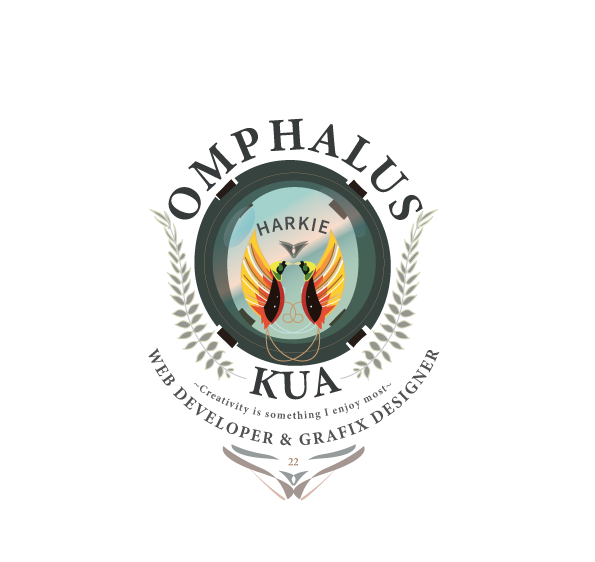
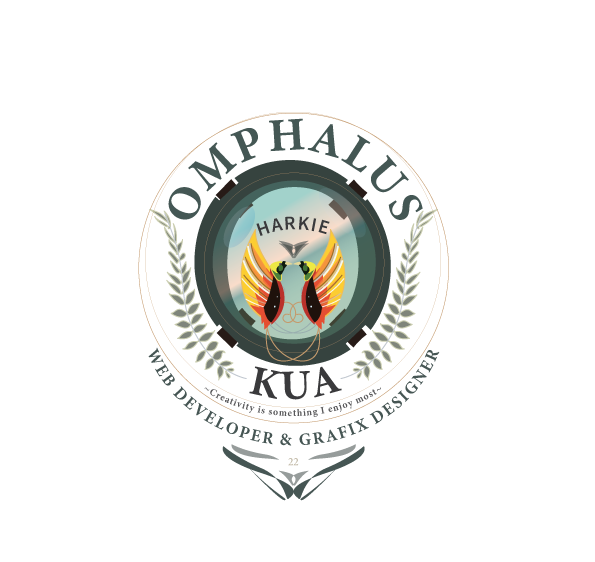
added purple haze to front ui

diff --git a/src/components/Navbar.js b/src/components/Navbar.js
@@ -32,8 +32,8 @@ const useStyles = makeStyles((theme) => ({
     width: "auto",
   },
   appBar: {
-    background: "linear-gradient(45deg, #667370, #ffcec524)",
-    boxShadow: "-4px 6px 1px #3e484d73, -1px -1px 1px #636f6b",
+    background: "linear-gradient(45deg, #5f416399, #ffcec524)",
+    boxShadow: "-4px 6px 1px #3e484d73, -1px 3px 1px #6a707345",
     margin: 0,
     position: "fixed",
     width: "auto",
@@ -55,7 +55,7 @@ const useStyles = makeStyles((theme) => ({
     justifyContent: "center",
     flexDirection: "column",
     alignItems: "center",
-    background: "linear-gradient(45deg, #384552, #588c90)",
+    background: "linear-gradient(45deg, #271829, #777677)",
     borderRadius: "2rem 2rem 3rem 3rem !important",
     boxShadow:
       "-4px 6px 1px #3e484d73, -1px -1px 1px rgba(102, 51, 102, 0.174)",
@@ -124,20 +124,32 @@ const useStyles = makeStyles((theme) => ({
   },
   textColor: {
     "& span": {
-      fontSize: "0.89rem",
+      fontSize: "1.23rem",
       color: "#f3fffe;",
       fontWeight: "500",
-      letterSpacing: ".085rem",
+      letterSpacing: ".05rem",
+      fontFamily: "Padauk",
       lineHeight: "1.2rem",
+      [`${theme.breakpoints.up("md")} and (orientation: landscape)`]: {
+        fontSize: "1.07rem",
+        letterSpacing: ".1rem",
+      },
     },
   },
 
   hamburger_lines_coat: {
-    border: "1px solid #a0a8a6",
-    padding: theme.spacing.unit,
-    background: "linear-gradient(45deg, #495854, #ffcec524)",
-    borderRadius: "31%",
-    boxShadow: "-4px 6px 1px #606d6a, -1px -1px 1px #a1a4a2",
+    borderTop: "none",
+    borderRight: "none",
+    borderBottom: "1px solid #595f64",
+    borderLeft: "1px solid #595f64",
+
+    padding: "4px",
+    borderRadius: "10px 4px",
+    background: "linear-gradient(45deg, #2312148a, #ffcec524)",
+    boxShadow: "-4px 6px 1px #3e484d73, -1px 3px 1px #23121417",
+    [`${theme.breakpoints.up("md")} and (orientation: portrait)`]: {
+      padding: "6px",
+    },
   },
   hamburger_lines: {
     display: "flex",

diff --git a/src/components/Navbar.scss b/src/components/Navbar.scss
@@ -82,10 +82,10 @@ $desktop: 2560px;
     padding: 6px 0px 6px 14px !important;
     margin: 11.25px !important;
     margin-left: 6px !important;
-    border: 0.3px solid #548187;
+    border: 0.3px solid #524b53;
     border-radius: 1rem;
-    background: linear-gradient(45deg, #384552a3, #588c9069);
-    box-shadow: -4px 6px 1px #3e484d73, -1px -1px 1px rgba(102, 51, 102, 0.174);
+    background: linear-gradient(45deg, #2e202f91, #86bcc075);
+    box-shadow: -4px 6px 1px #2e202f94, -1px -1px 1px rgba(102, 51, 102, 0.174);
   }
 }
 
@@ -108,9 +108,9 @@ $desktop: 2560px;
   }
 }
 .MuiDrawer-paperAnchorRight {
-  background: linear-gradient(#cd7e5700, #2b4e5d) !important;
+  background: linear-gradient(#d7d5c624, #331935) !important;
   // border-left: 2px solid #4f797f;
-  border: 2px solid #4f797f;
+  border: 2px solid #2c193273;
   padding: 7.2px;
   box-shadow: 1px 1px 8px #202d28, 1px 1px 14px #2b2f2e;
   left: 1px !important;

diff --git a/src/components/3D/TextAnimations.js b/src/components/3D/TextAnimations.js
@@ -50,11 +50,10 @@ const animation = keyframes`
 
 const Wrapper = styled.span`
   display: inline-block;
-  color: #231214;
+  color: #93ae7c;
   margin: 0;
   font-size: 1.52rem;
   margin-left: 1rem;
-  font-weight: 500;
   font-family: "Caveat", sans-serif;
   ${SuperQuery().minWidth.sm.and.landscape.css`
     padding: 0 4.3rem !important;
@@ -80,11 +79,12 @@ const Wrapper = styled.span`
     animation-iteration-count: infinite;
     animation-timing-function: cubic-bezier(0.75, 0.82, 0.165, 1);
   }
-  //H
+  //W
 
   span:nth-child(1) {
     animation-delay: 0.15s;
     font-family: "Caveat";
+    font-weight: "100";
     text-transform: uppercase;
     font-size: 2.7rem;
     @media ${device.tablet} {
@@ -92,7 +92,6 @@ const Wrapper = styled.span`
     }
     @media ${device.laptop} {
       font-size: 4.25rem;
-      font-weight: 100;
     }
   }
   //e

diff --git a/src/components/MediaQuery/Footer/Mq_Footer.js b/src/components/MediaQuery/Footer/Mq_Footer.js
@@ -7,11 +7,11 @@ const SclMedia = styled.div`
   .MuiBottomNavigationAction-root.MuiBottomNavigationAction-iconOnly {
     border-radius: 8px 0;
     padding: 2px !important;
-    border: 0.3px solid #85cec463;
+    border: 0.3px solid #524b53;
     margin: 7px 4px;
     border-radius: 3rem;
     color: #39a7aa;
-    background: #3b626f;
+    background: linear-gradient(45deg, #2e202f94, #588c9069);
     box-shadow: -4px 6px 1px #3e484d73, -1px -1px 1px #636f6b;
   }
 

diff --git a/src/components/3D/logoDetails.js b/src/components/3D/logoDetails.js
@@ -101,7 +101,6 @@ const SmallText = styled.span`
   font-size: 23px;
   color: #fff7f2;
   padding: 0 1rem;
-  font-weight: 500;
   line-height: 1.85rem;
   text-align: center;
   font-family: "Vollkorn";
@@ -140,7 +139,7 @@ const SmallText = styled.span`
   `};
   @media ${device.laptopL} {
     font-size: 32px;
-    line-height: 2.2rem;
+    line-height: 2.42rem;
     padding: 0 7.2rem;
   }
 `;

diff --git a/src/components/3D/LogoAnimation.js b/src/components/3D/LogoAnimation.js
@@ -31,7 +31,7 @@ const AniLogo = styled.div`
   `};
 
   @media ${device.tablet} {
-    height: 465px;
+    height: 425px;
   }
   ${SuperQuery().minWidth.md.and.landscape.css`
     height: 256px !important;
@@ -45,7 +45,7 @@ const AniLogo = styled.div`
     
   `};
   @media ${device.laptopL} {
-    height: 450px;
+    height: 444px !important;
   }
 
   img {

diff --git a/src/components/Footer.js b/src/components/Footer.js
@@ -13,7 +13,7 @@ const useStyles = makeStyles({
     justifyContent: "center",
     padding: "1px 1px 8px 1px",
     height: "auto",
-    marginTop: "2px",
+    marginTop: "11px",
     borderRadius: "3px 3px 4rem 4rem",
     background: "linear-gradient(#05110900,#8bcece4f ) !important",
   },
